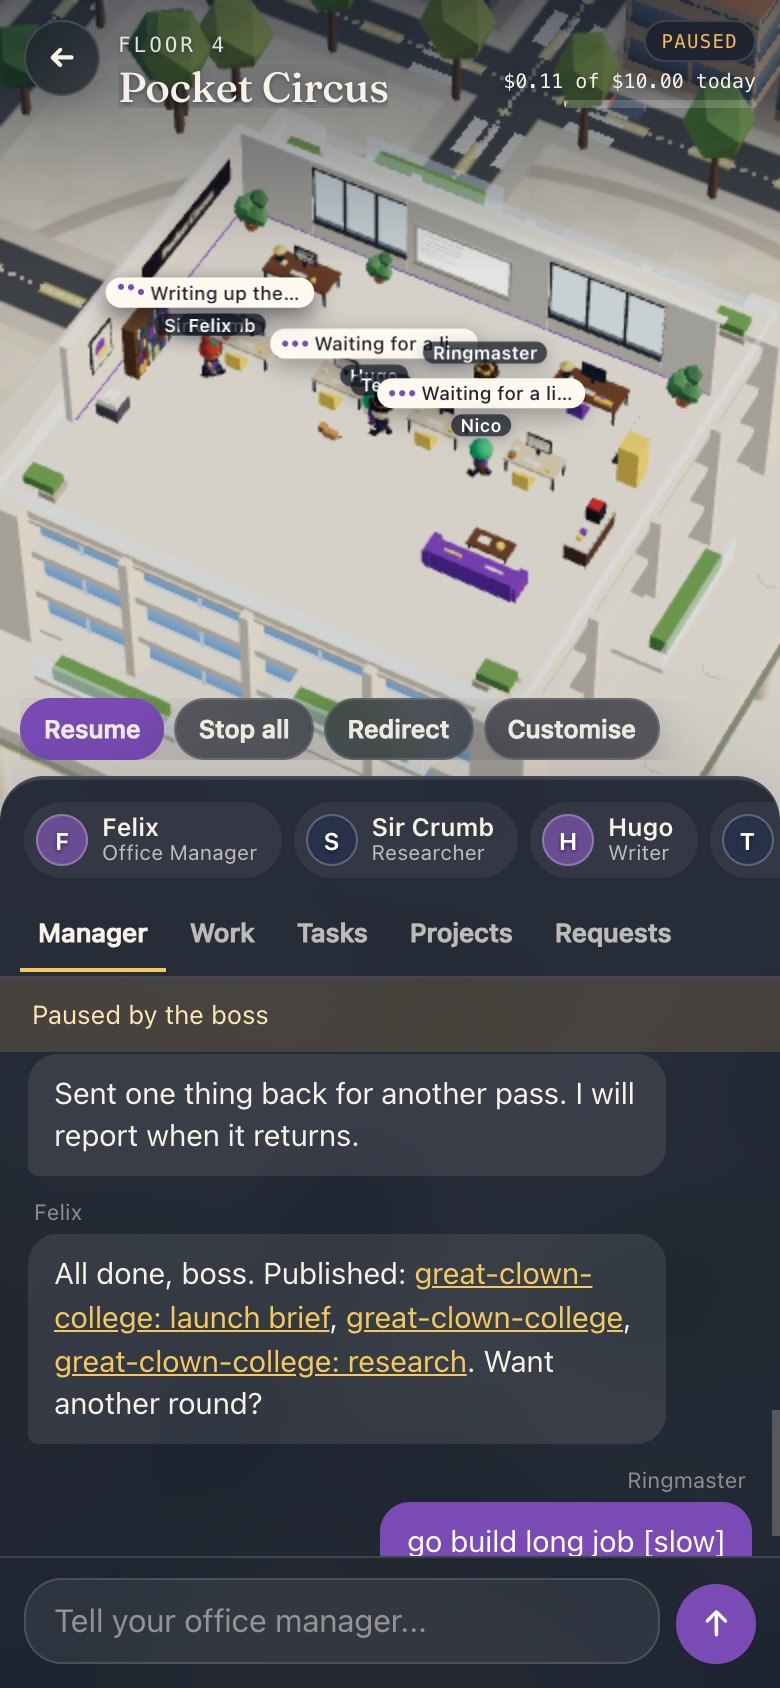
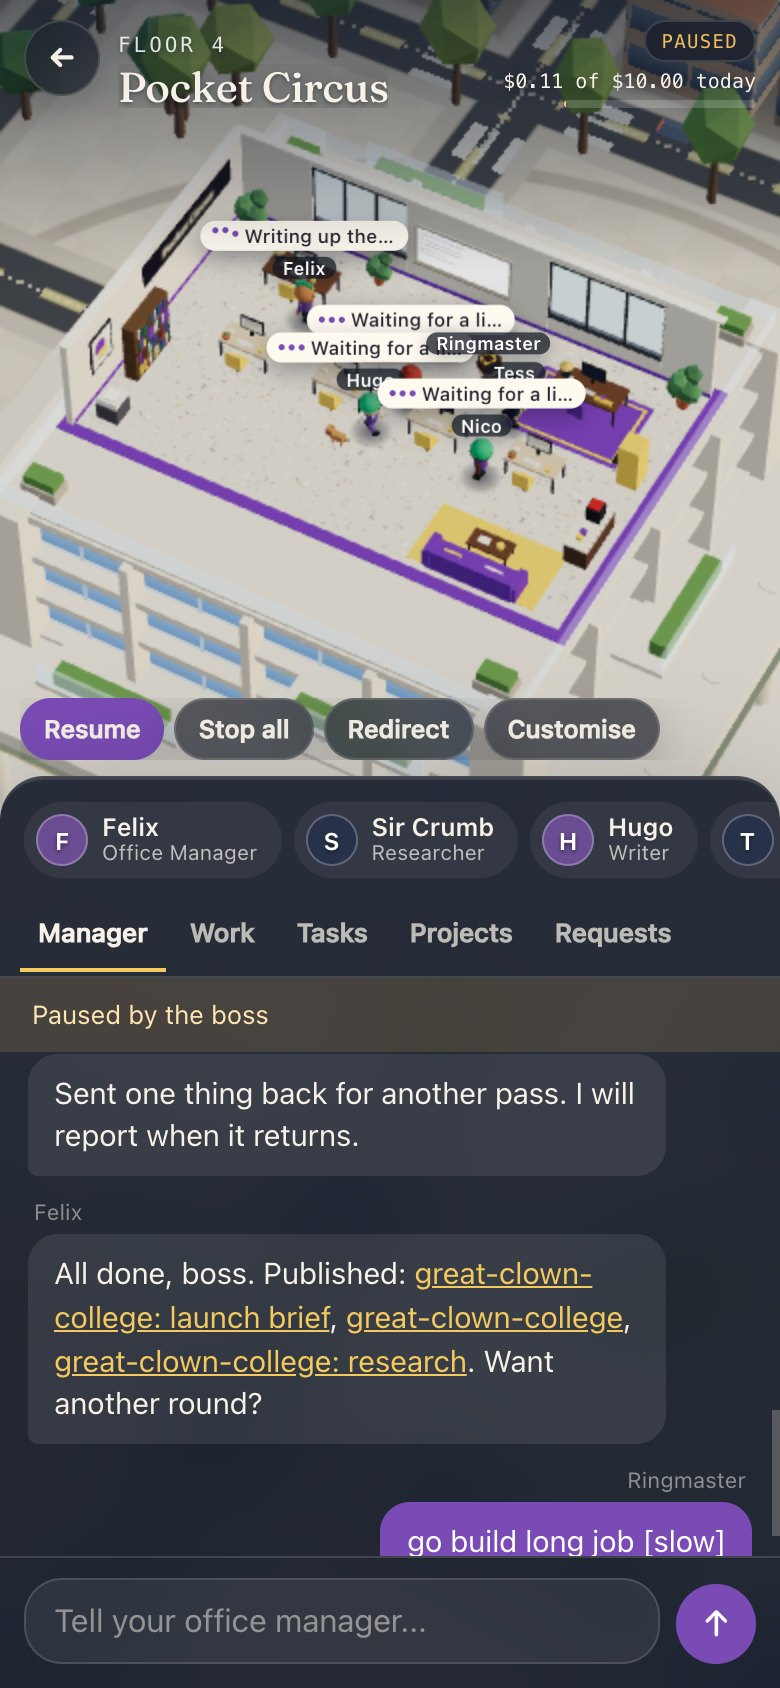
Final visual pass: plate heights, after- screenshots, refreshed e2e media

diff --git a/public/js/office-scene.js b/public/js/office-scene.js
@@ -363,7 +363,8 @@ export class OfficeView {
   buildWorld() {
     this.world = getWorld();
     const n = this.floorNumber;
-    const lift = -(GROUND + (n - 1) * FLOOR_H) * WORLD_SCALE;
+    // A little lower than exact, so the tower's own slab sits just under our plate instead of fighting it for the same plane.
+    const lift = -(GROUND + (n - 1) * FLOOR_H) * WORLD_SCALE - 0.35;
     this.worldLift = lift;
     this.stub = makeTower(Math.max(0, n - 1), { stub: true, env: this.world.environment() });
     this.stub.group.scale.setScalar(WORLD_SCALE); this.stub.group.position.y = lift;
@@ -387,9 +388,9 @@ export class OfficeView {
 
     // The floor plate is the top of the tower: a stone slab the size of the shaft, with a glass rail around the terrace left over.
     const plate = TOWER_W * WORLD_SCALE + 1.2;
-    piece(room, '#e9dfcf', plate, 0.42, plate, 0, -0.42, 0);
-    piece(room, '#d4c8b6', plate + 0.3, 0.12, plate + 0.3, 0, -0.54, 0, { cast: false });
-    piece(room, primary, ROOM_W + 1.1, 0.08, ROOM_D + 1.1, 0, -0.08, 0, { recv: false, cast: false });
+    piece(room, '#e9dfcf', plate, 0.42, plate, 0, -0.48, 0);
+    piece(room, '#d4c8b6', plate + 0.3, 0.12, plate + 0.3, 0, -0.6, 0, { cast: false });
+    piece(room, primary, ROOM_W + 1.1, 0.05, ROOM_D + 1.1, 0, -0.06, 0, { recv: false, cast: false });
     const rail = new THREE.MeshStandardMaterial({ color: '#cfe0ec', roughness: 0.12, metalness: 0.1, transparent: true, opacity: 0.4, depthWrite: false, envMap: getWorld().environment() });
     for (const [x, z, w, dd] of [[0, plate / 2, plate, 0.06], [0, -plate / 2, plate, 0.06], [plate / 2, 0, 0.06, plate], [-plate / 2, 0, 0.06, plate]]) piece(room, null, w, 1.0, dd, x, 0, z, { cast: false, mat: rail });
     for (const [x, z] of [[-plate / 2 + 1.4, plate / 2 - 1.2], [plate / 2 - 1.4, plate / 2 - 1.2], [plate / 2 - 1.4, -plate / 2 + 1.2], [-plate / 2 + 1.4, -plate / 2 + 1.2]]) { piece(room, '#b9b0a2', 1.6, 0.5, 1.0, x, 0, z); piece(room, '#6c9452', 1.4, 0.45, 0.8, x, 0.5, z); }
